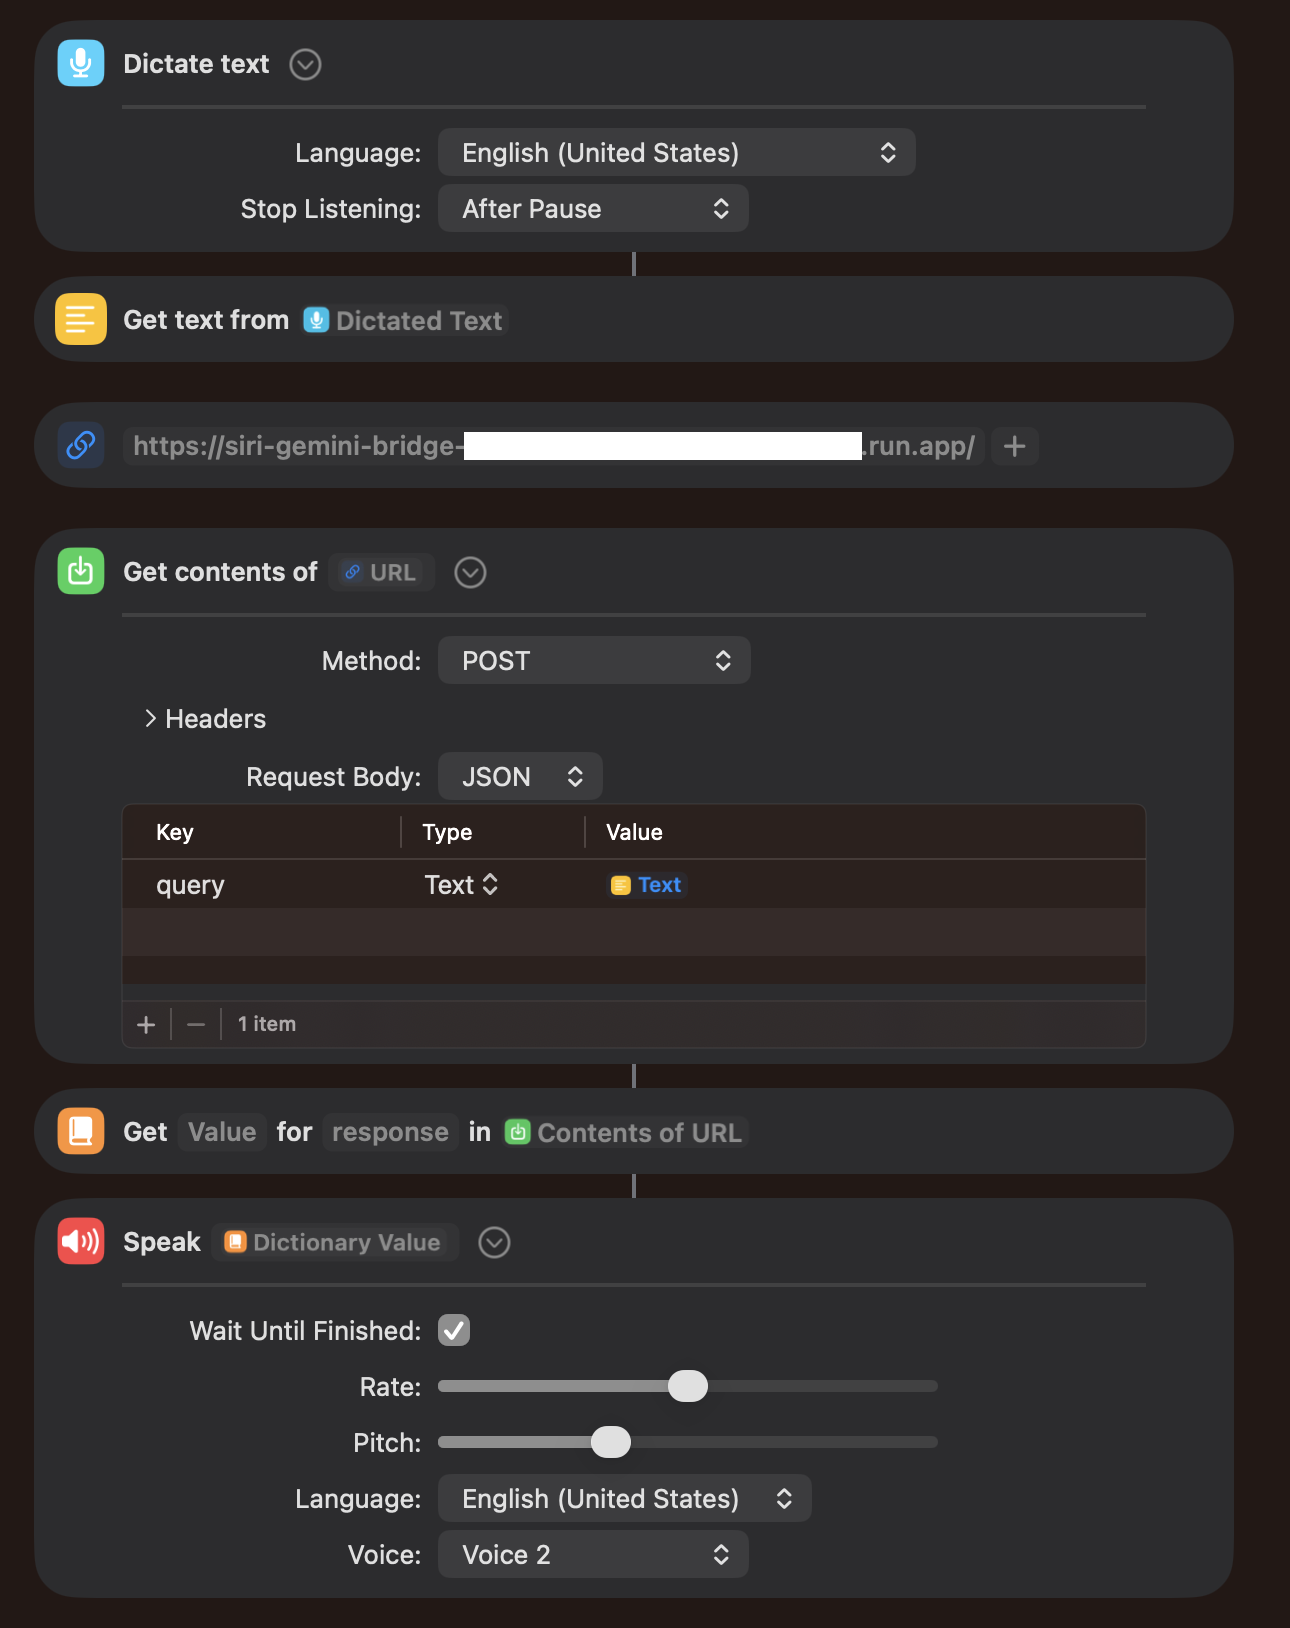
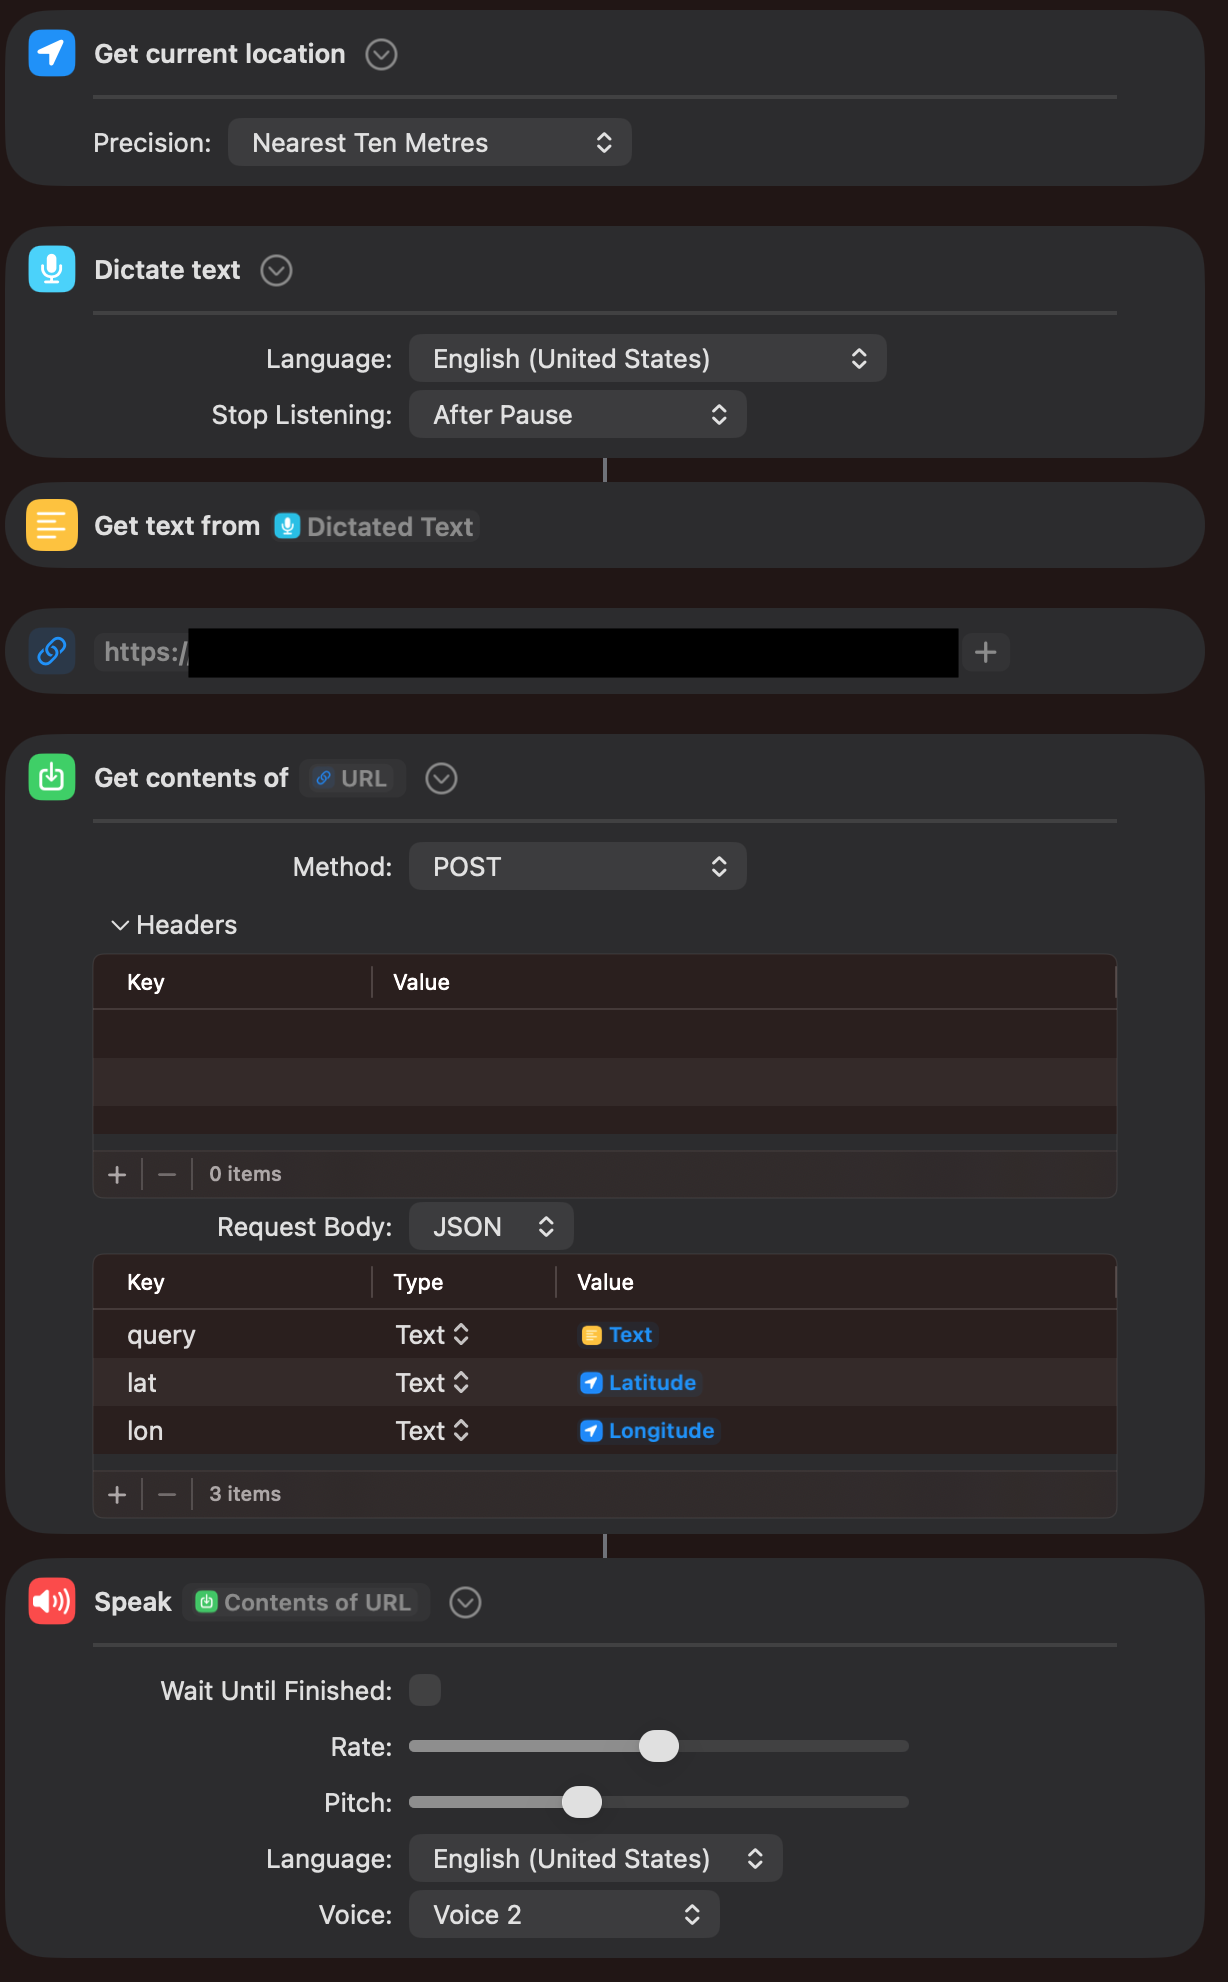
Update to latest Google packages; add location context

diff --git a/main.py b/main.py
@@ -1,27 +1,56 @@
 import os
-import google.generativeai as genai
-from flask import jsonify
 import logging
+from flask import Response, stream_with_context, request, jsonify
+from google import genai
+from google.genai import types
+
+# Initialize client globally for better Cloud Run performance
+api_key = os.environ.get("GEMINI_API_KEY")
+client = genai.Client(
+  api_key=api_key,
+  http_options=types.HttpOptions(api_version='v1beta')
+) if api_key else None
 
 def siri_gemini(request):
-    """HTTP Cloud Function to interact with Gemini."""
-    api_key = os.environ.get("GEMINI_API_KEY")
-    if not api_key:
-        return jsonify({"error": "GEMINI_API_KEY environment variable not set."}), 500
-
-    genai.configure(api_key=api_key)
-    model = genai.GenerativeModel('gemini-2.5-flash')
+    if not client:
+        return jsonify({"error": "GEMINI_API_KEY not set."}), 500
 
     request_json = request.get_json(silent=True)
-    if request_json and 'query' in request_json:
-        query = request_json['query']
-        query += " Respond concisely and like you are an electronic assistant whose response is read out on a device. Use metric units by default."
-        logging.info(f"Q: {query}")
-        try:
-            response = model.generate_content(query)
-            logging.info(f"A: {response}")
-            return jsonify({"response": response.text})
-        except Exception as e:
-            return jsonify({"error": str(e)}), 500
-    else:
+    user_query = request_json.get('query') if request_json else None
+    lat = request_json.get('lat')
+    lon = request_json.get('lon')
+ 
+    if not user_query:
         return jsonify({"error": "Missing 'query' in request body."}), 400
+
+    location_context = f" The user is roughly at coordinates {lat}, {lon}. Take their location into account and use your local knowledge if relevant for the response." if lat and lon else ""
+
+    def generate():
+        try:
+            # Using generate_content_stream for real-time chunks
+            response_stream = client.models.generate_content_stream(
+                model='gemini-3-flash-preview',
+                contents=user_query,
+                config=types.GenerateContentConfig(
+                    system_instruction=(
+                        f"You are a digital assistant whose response is read out on a device. Make sure to keep your response concise and on point. {location_context}" 
+                        "Use metric units. "
+                        "Assume that the user is male if relevant for your response and not indicated otherwise."
+                    ),
+                    # Set thinking to LOW for maximum streaming speed
+                    thinking_config=types.ThinkingConfig(
+                        thinking_level=types.ThinkingLevel.LOW 
+                    )
+                )
+            )
+            
+            for chunk in response_stream:
+                if chunk.text:
+                    yield chunk.text
+                    
+        except Exception as e:
+            logging.error(f"Streaming error: {e}")
+            yield f"Error: {str(e)}"
+
+    # Return a streaming response that Flask handles
+    return Response(stream_with_context(generate()), mimetype='text/plain')
